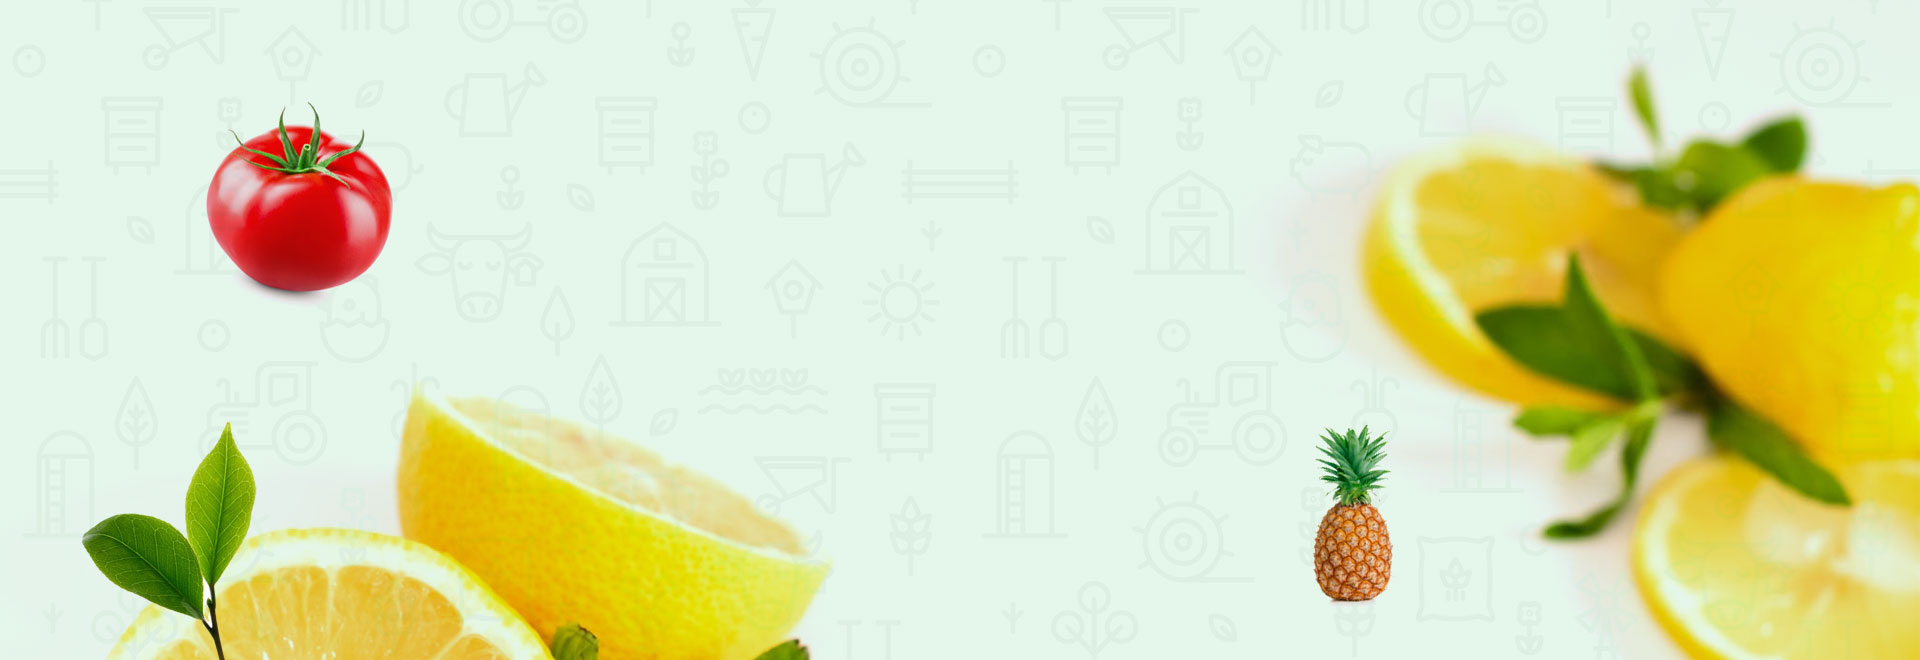
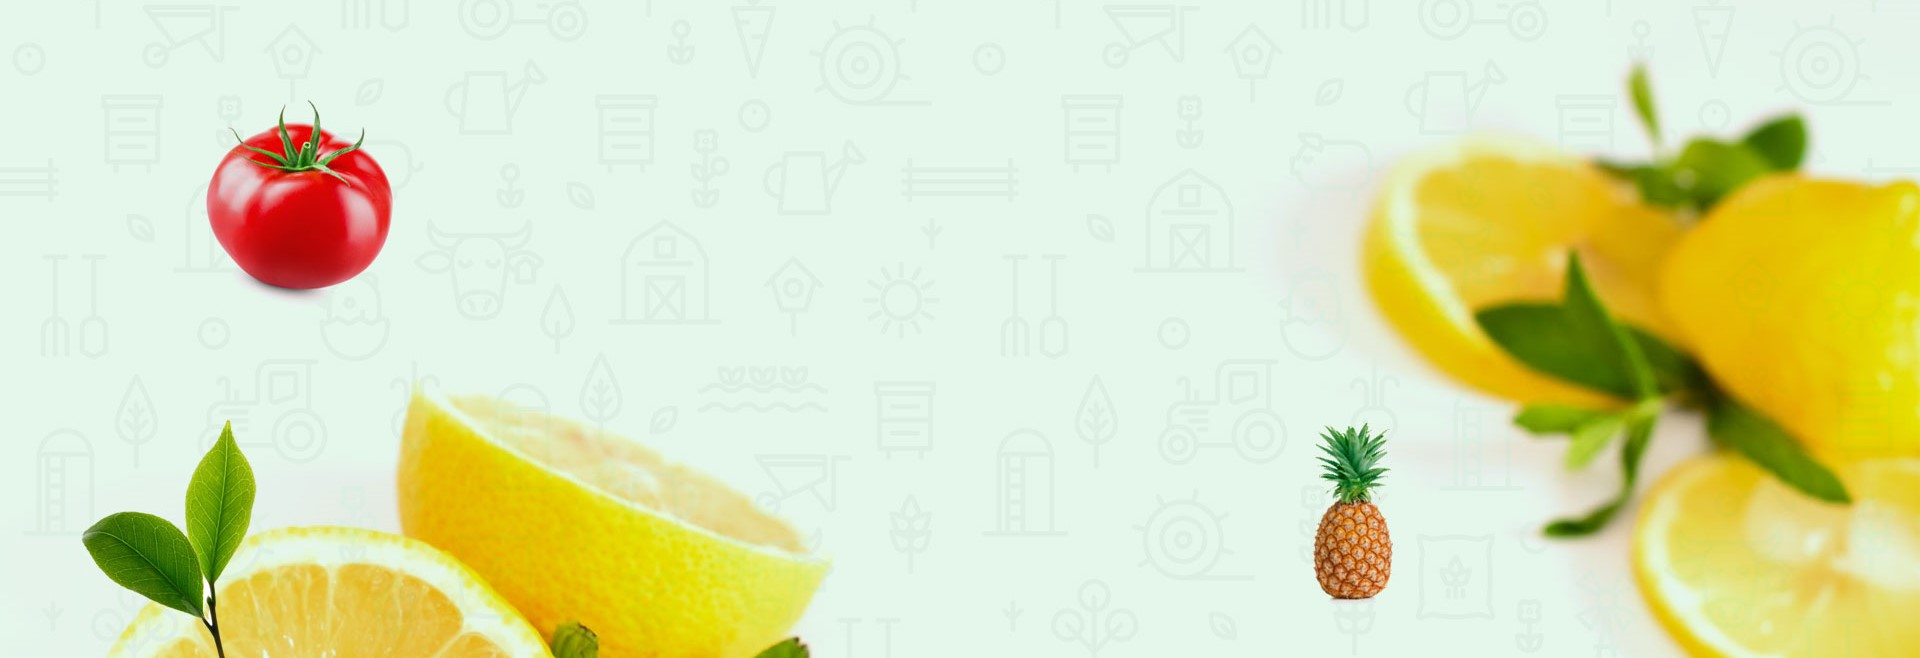
Change hero section

diff --git a/pages/index.html b/pages/index.html
@@ -97,15 +97,17 @@
     </div>
   </nav>
   <!-- hero-section -->
-  <div id="carouselExampleIndicators" class="carousel slide">
-    <div class="carousel-indicators">
-      <button type="button" data-bs-target="#carouselExampleIndicators" data-bs-slide-to="0" class="active"
-        aria-current="true" aria-label="Slide 1"></button>
-      <button type="button" data-bs-target="#carouselExampleIndicators" data-bs-slide-to="1"
+  <section id="carouselExampleIndicators" class="carousel slide" data-bs-ride="carousel">
+    <div class="carousel-indicators ">
+      <button type="button" data-bs-target="#carouselExampleIndicators" data-bs-slide-to="0"
+        class="active text-bg-success" aria-current="true" aria-label="Slide 1"></button>
+      <button class="text-bg-success" type="button" data-bs-target="#carouselExampleIndicators" data-bs-slide-to="1"
         aria-label="Slide 2"></button>
+      <!-- <button type="button" data-bs-target="#carouselExampleIndicators" data-bs-slide-to="2"
+            aria-label="Slide 3"></button> -->
     </div>
-    <div class="carousel-inner position-relative">
-      <div class="carousel-item active">
+    <div id="carousel1" class="carousel-inner mt-1">
+      <div class="carousel-item active position-relative carusel-cards">
         <div class="hero-section position-absolute top-50 start-50 translate-middle text-center">
           <h5 class="fw-normal leganic">Most Trusted Organic Food</h5>
           <h1 class="fw-bold display-5">Fresh Organic Items For <br> Your Healthy Life</h1>
@@ -116,9 +118,9 @@
               TODAY</button>
           </div>
         </div>
-        <img class="img-fluid " src="../images/image-6-1.jpg" alt="hero-img-1">
+        <img id="img" class="object-fit-cover h-100 w-100" src="../images/image-6-1.jpg" class="d-block w-100">
       </div>
-      <div class="carousel-item">
+      <div id="carousel1" class="carousel-item position-relative carusel-cards">
         <div class="hero-section position-absolute top-50 start-50 translate-middle text-center">
           <h5 class="fw-normal leganic">Most Trusted Organic Food</h5>
           <h1 class="fw-bold display-5">Organic Fruits, <br> Vegetables & Meat</h1>
@@ -129,20 +131,11 @@
               TODAY</button>
           </div>
         </div>
-        <img class="img-fluid w-100" src="../images/image-7-1 (1).jpg" alt="hero-img-2">
+
+        <img id="img" class="object-fit-cover h-100 w-100" src="../images/image-7-1 (1.1).jpg" class="d-block w-100">
       </div>
-      <button class="carousel-control-prev" type="button" data-bs-target="#carouselExampleIndicators"
-        data-bs-slide="prev">
-        <span class="carousel-control-prev-icon" aria-hidden="true"></span>
-        <span class="visually-hidden">Previous</span>
-      </button>
-      <button class="carousel-control-next" type="button" data-bs-target="#carouselExampleIndicators"
-        data-bs-slide="next">
-        <span class="carousel-control-next-icon" aria-hidden="true"></span>
-        <span class="visually-hidden">Next</span>
-      </button>
     </div>
-  </div>
+  </section>
   <!-- about-section -->
   <div class="container p-5">
     <img class="img-fluid mb-3 ms-5" src="../images/icon-1.png" alt="leaf-icon">
@@ -680,8 +673,8 @@
         <img src="../images/icon-1.png" alt="">
         <h1 class="py-5 fw-bold">Our Latest News</h1>
       </div>
-      <div class="row">
-        <div class="col-md-4 mb-4 position-relative">
+      <div class="row justify-content-center">
+        <div class="col-lg-4 col-sm-6 mb-4 position-relative z-3">
           <div class="card h-100 larger shadow border-0">
             <div class="card-img overflow-hidden">
               <img src="../images/news-1-370x308.jpg" class="w-100 h-100 object-fit-cover img-fluid zoom-out-img"
@@ -702,7 +695,7 @@
             </div>
           </div>
         </div>
-        <div class="col-md-4 mb-4">
+        <div class="col-lg-4 col-sm-6 mb-4 z-3">
           <div class="card h-100 larger shadow border-0 overflow-hidden position-relative">
             <div class="card-img overflow-hidden">
               <img src="../images/news-4-370x308.jpg" class="w-100 h-100 object-fit-cover img-fluid zoom-out-img"
@@ -723,7 +716,7 @@
             </div>
           </div>
         </div>
-        <div class="col-md-4 mb-4">
+        <div class="col-lg-4 col-sm-6 mb-4 z-3">
           <div class="card h-100 larger shadow border-0 overflow-hidden position-relative">
             <div class="card-img overflow-hidden">
               <img src="../images/news-8-370x308.jpg" class="w-100 h-100 object-fit-cover img-fluid zoom-out-img"
@@ -746,8 +739,8 @@
         </div>
       </div>
     </div>
-    <div class="position-relative d-none d-lg-block d-md-none">
-      <img class="position-absolute bottom-0 start-0 float-animation" src="../images/floating-image-3-last.jpg" alt="">
+    <div class="position-relative ">
+      <img class="position-absolute bottom-0 start-0 float-animation" src="../images/floating-image-3.jpg" alt="">
     </div>
   </div>
   <!-- client-images-section -->

diff --git a/style/style.css b/style/style.css
@@ -7,8 +7,34 @@
 
 /* hero-section */
 
-.carousel-item img {
-  height: 70vh;
+@media (max-width: 575.98px) {
+  .carusel-cards {
+    height: 50vh;
+  }
+
+  .carusel-cards img {
+    height: 50vh;
+  }
+}
+
+@media (max-width: 767.98px) {
+  .carusel-cards {
+    height: 60vh;
+  }
+
+  .carusel-cards img {
+    height: 60vh;
+  }
+}
+
+@media (min-width: 992px) {
+  .carusel-cards {
+    height: 60vh;
+  }
+
+  .carusel-cards img {
+    height: 40vh;
+  }
 }
 
 .leganic {
